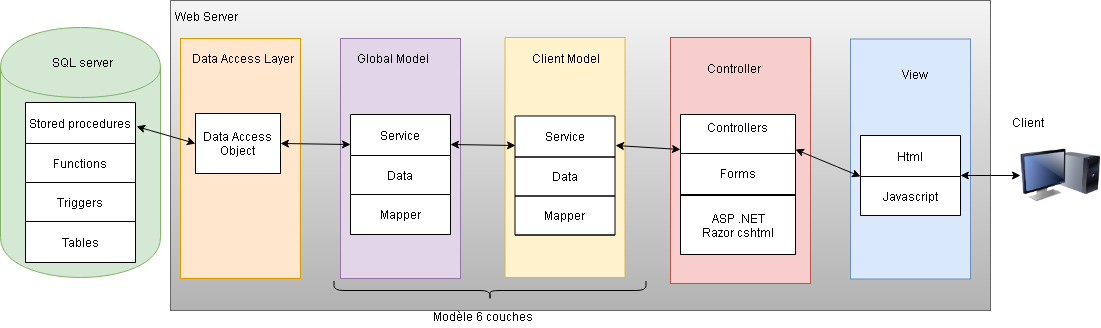
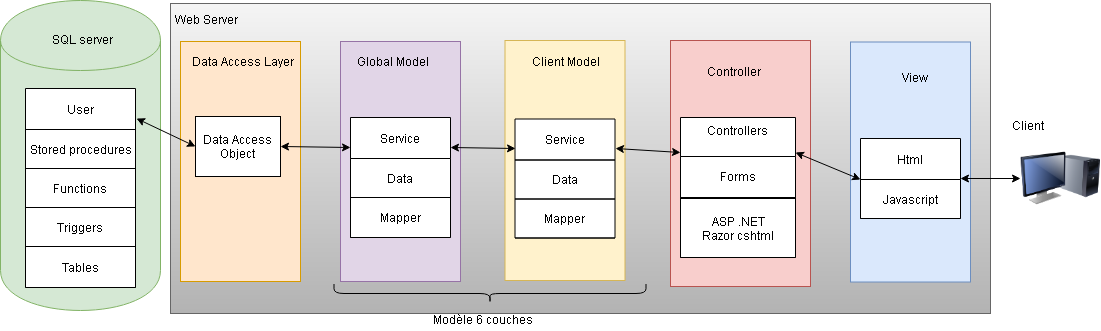
Updated stored procedure so it works with the new user

diff --git a/Presentation/presentation.tex b/Presentation/presentation.tex
@@ -79,7 +79,8 @@
 
 \section{Introduction}
 \include {introduction}
-
+\section{Objectifs}
+\include {objectifs}
 \section{Structure}
 
 \subsection{Structure du projet}
